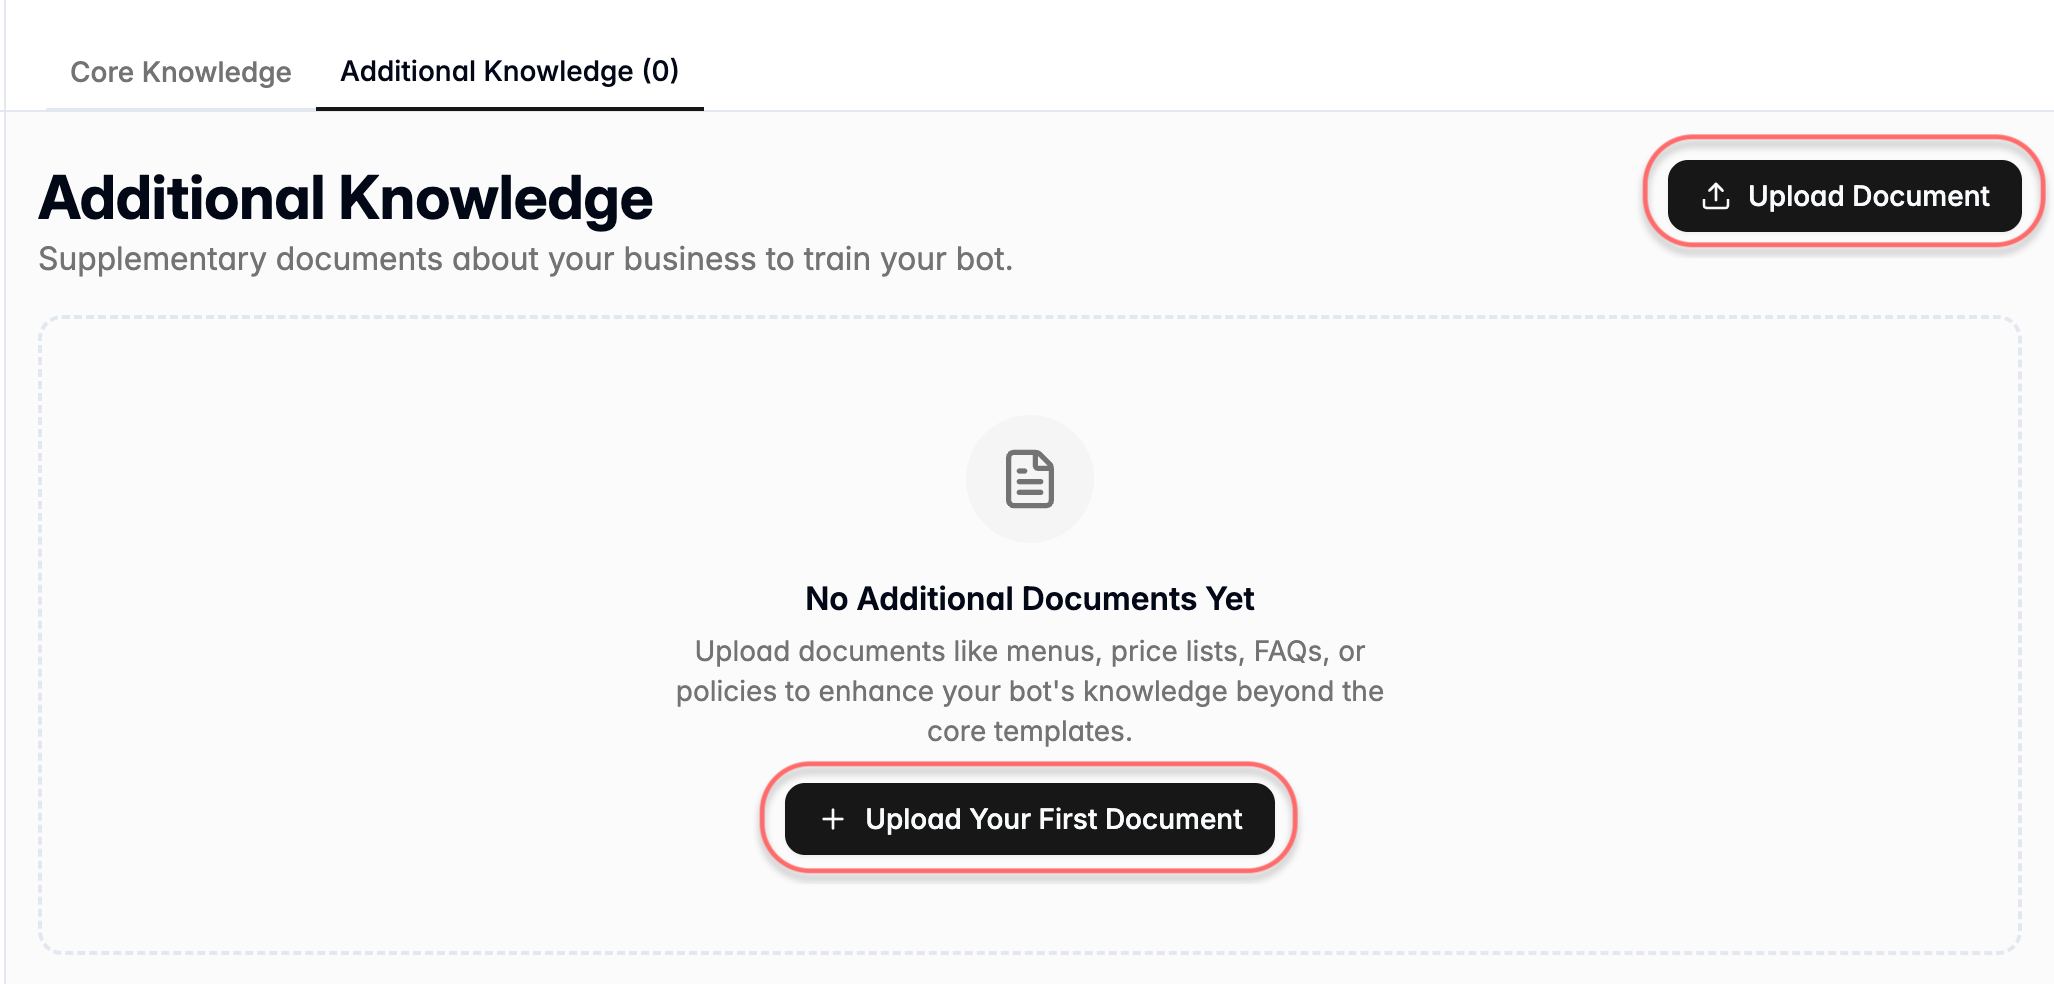
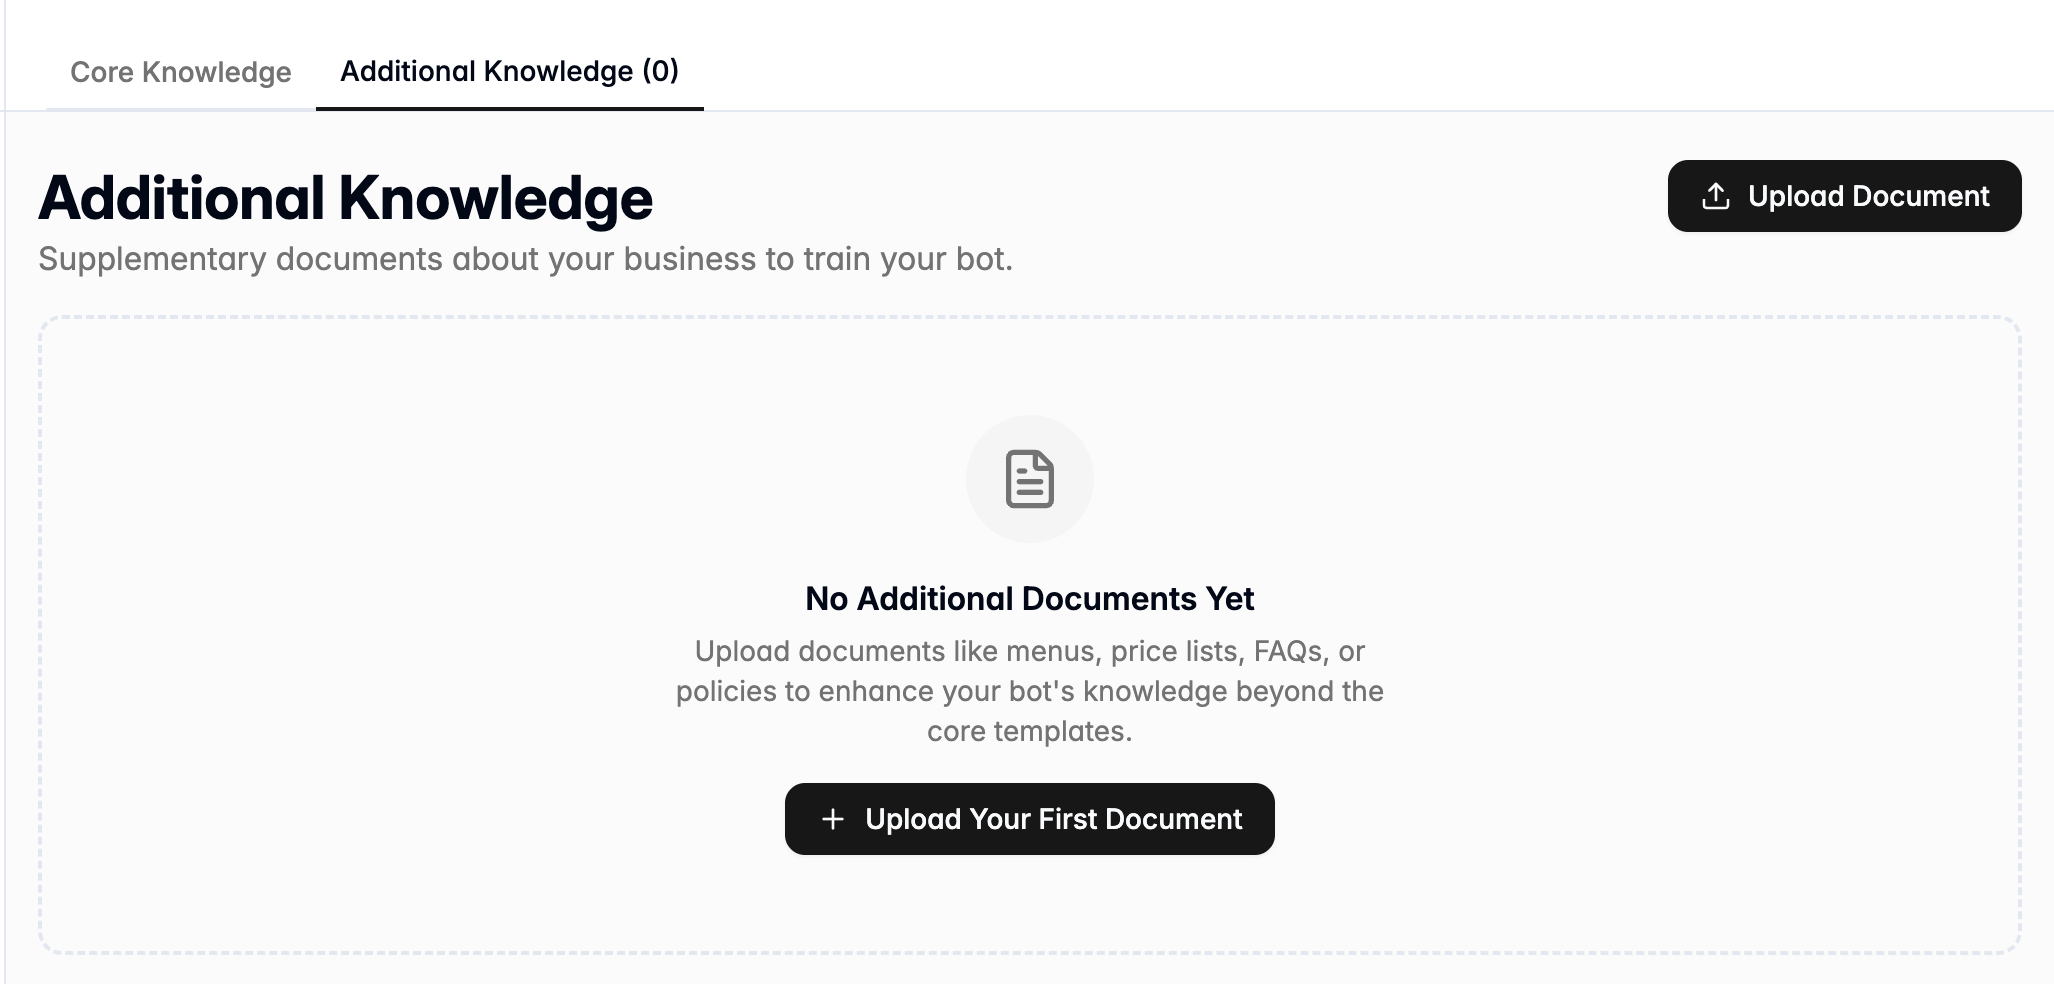
GITBOOK-180: No subject

diff --git a/settings/company.md b/settings/company.md
@@ -8,14 +8,15 @@ Use Company to update your company profile details:
 
 * Company name
 * Website
-* Company description
+* Email Communication Language
+* Description
 
 You can update this information at any time in **Settings**. You may also enter it during the [Create Account flow](../getting-started/create-account.md) when setting up a new workspace for the first time.
 
-<div data-with-frame="true"><img src="../.gitbook/assets/attachmente66275f3 c354 407f 8d59 ffc9b61c76c294e63b5c 498d 4ebf a57d 0d020a8cec22 (2).png" alt=""></div>
+<div data-with-frame="true"><figure><img src="../.gitbook/assets/image.png" alt=""><figcaption></figcaption></figure></div>
 
 1. Finish updating the details.
 2. Review your changes to confirm everything is correct.
 3. Select **Save Changes** to apply the updates.
 
-<div data-with-frame="true"><img src="../.gitbook/assets/attachmentb33576d0 72a8 4769 8588 cd4e7856787396a0ffef 3e39 4533 8915 4a30ea628e3a (2).png" alt=""></div>
+<div data-with-frame="true"><figure><img src="../.gitbook/assets/image (262).png" alt=""><figcaption></figcaption></figure></div>

diff --git a/business-knowledge/additional-documents.md b/business-knowledge/additional-documents.md
@@ -11,7 +11,7 @@ icon: file-circle-plus
 **Important Note**: Please follow [Document Management](document-management.md) for additional context on other functions and workflows, including how documents are organized, updated, and maintained over time.
 {% endhint %}
 
-<div data-with-frame="true"><figure><img src="../.gitbook/assets/image.png" alt=""><figcaption></figcaption></figure></div>
+<div data-with-frame="true"><figure><img src="../.gitbook/assets/image (1).png" alt=""><figcaption></figcaption></figure></div>
 
 {% stepper %}
 {% step %}
@@ -21,7 +21,7 @@ Select **Upload Document** or **Upload Your First Document**.&#x20;
 
 Alternatively, you can upload it in the [Core Knowledge](https://app.gitbook.com/s/BW7n4ClAhZvbgvusylCd/business-knowledge) section.
 
-<div data-with-frame="true"><figure><img src="../.gitbook/assets/image (1).png" alt=""><figcaption></figcaption></figure></div>
+<div data-with-frame="true"><figure><img src="../.gitbook/assets/image (1) (1).png" alt=""><figcaption></figcaption></figure></div>
 {% endstep %}
 
 {% step %}
